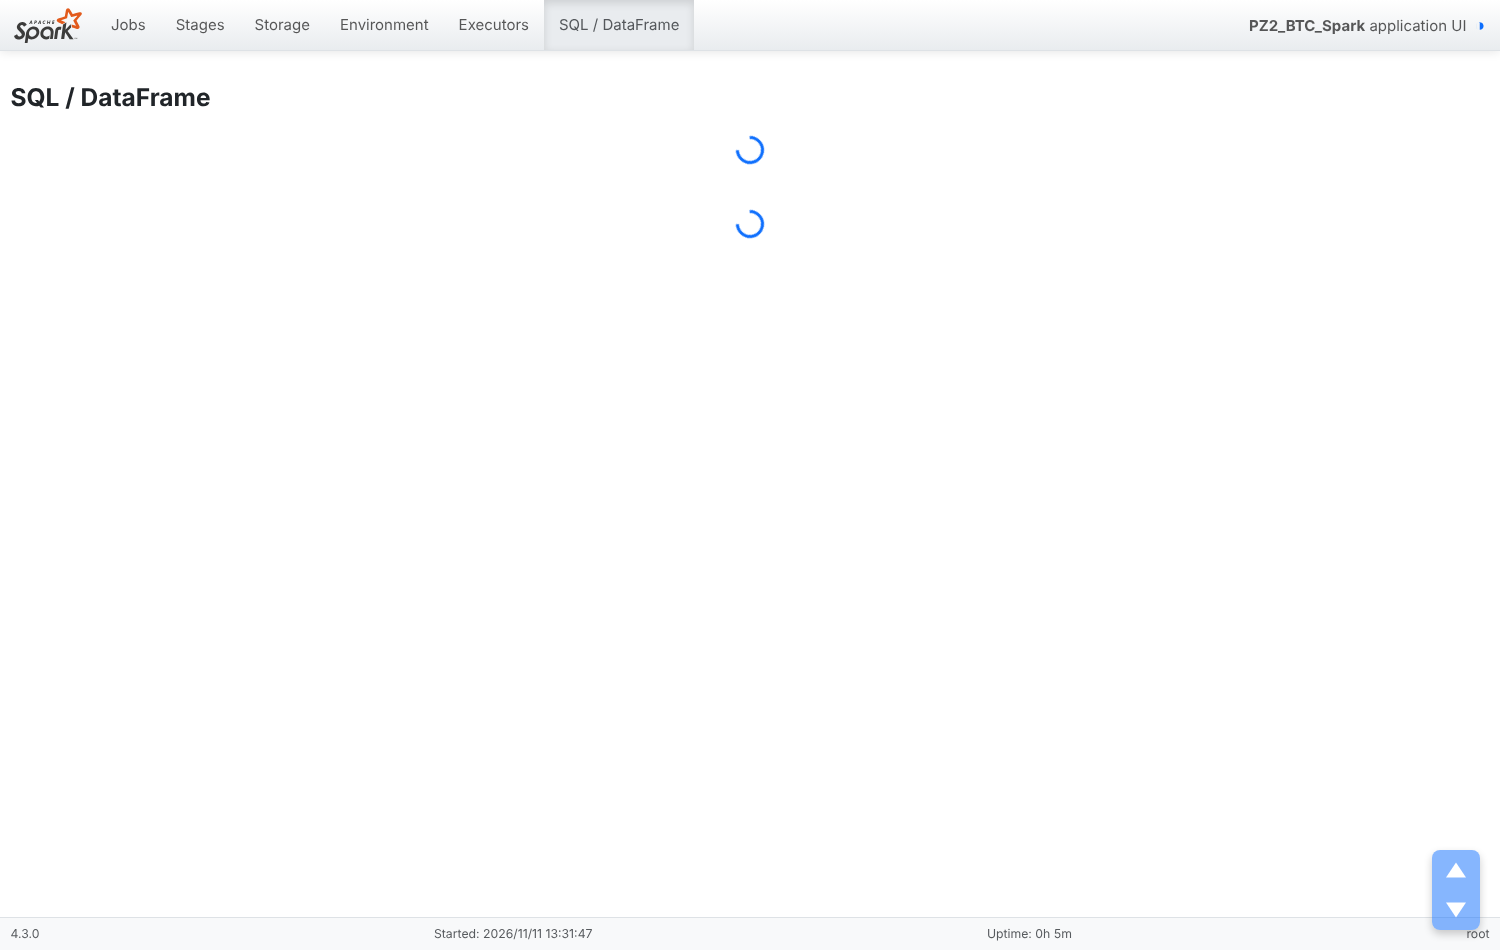
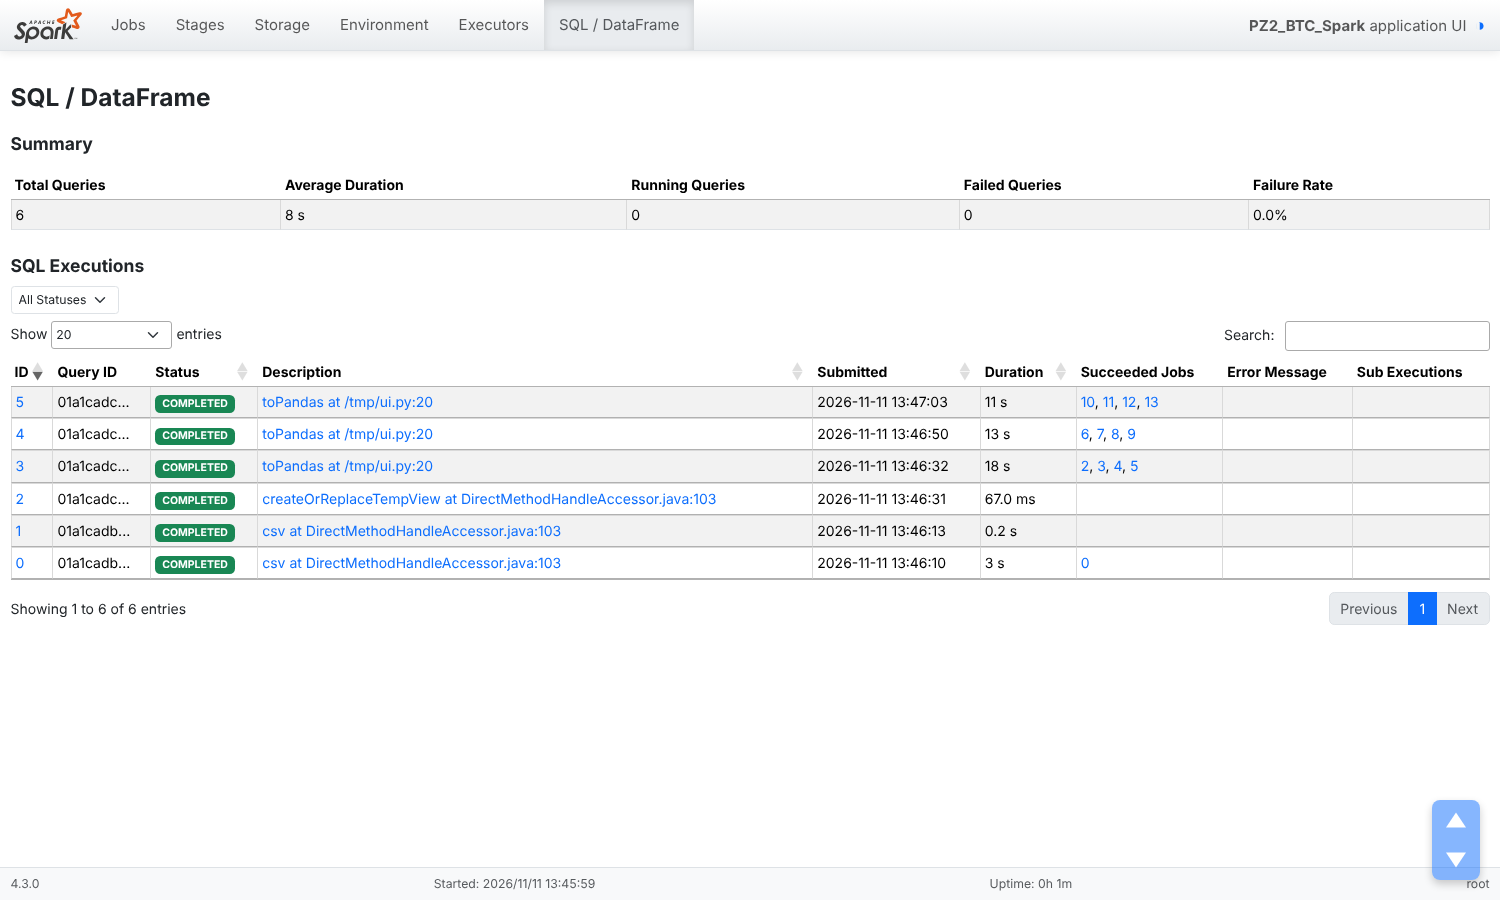
feat: close PZ2 gaps with env screenshots, memory and Spark SQL UI
Claude-Session: https://claude.ai/code/session_01KWCSK2tHnVV4Q7sUd1zkm9

diff --git a/work/pz2/code/measure_memory.py b/work/pz2/code/measure_memory.py
@@ -1,0 +1,60 @@
+# -*- coding: utf-8 -*-
+"""Пік пам'яті (RSS) для pandas і Spark на тих самих двох задачах, що й у pz2_spark.py.
+Кожне вимірювання – окремий процес; psutil опитує RSS кожні 50 мс (процес + діти, для Spark – JVM драйвера)."""
+import os, sys, time, subprocess, threading, psutil, csv
+RAW = "/home/user/AVD/work/data/raw/btcusd_1-min_data.csv"
+RES = os.path.abspath(os.path.join(os.path.dirname(__file__), "..", "results"))
+WORKER = r'''
+import sys, pandas as pd
+RAW, eng, task = sys.argv[1:4]
+if eng == "pandas":
+    d = pd.read_csv(RAW)
+    if task == "year_count_volume":
+        y = pd.to_datetime(d["Timestamp"], unit="s").dt.year
+        r = d.groupby(y).agg(n=("Volume", "size"), vol=("Volume", "sum"))
+    else:
+        dt = pd.to_datetime(d["Timestamp"], unit="s").dt.date
+        r = d.groupby(dt).agg(open=("Open","first"), high=("High","max"), low=("Low","min"), close=("Close","last"), volume=("Volume","sum"))
+else:
+    from pyspark.sql import SparkSession, functions as F
+    from pyspark.sql.types import *
+    spark = (SparkSession.builder.master("local[*]").config("spark.driver.memory","8g")
+             .config("spark.sql.shuffle.partitions","16").config("spark.sql.session.timeZone","UTC")
+             .config("spark.ui.enabled","false").getOrCreate())
+    SCHEMA = StructType([StructField("Timestamp", LongType())] + [StructField(c, DoubleType()) for c in ["Open","High","Low","Close","Volume"]])
+    d = spark.read.csv(RAW, header=True, schema=SCHEMA)
+    if task == "year_count_volume":
+        r = d.groupBy(F.year(F.timestamp_seconds("Timestamp")).alias("year")).agg(F.count("*").alias("n"), F.sum("Volume").alias("vol")).orderBy("year").toPandas()
+    else:
+        d = d.withColumn("date", F.to_date(F.timestamp_seconds("Timestamp")))
+        r = d.groupBy("date").agg(F.min_by("Open","Timestamp").alias("open"), F.max("High").alias("high"), F.min("Low").alias("low"),
+              F.max_by("Close","Timestamp").alias("close"), F.sum("Volume").alias("volume")).orderBy("date").toPandas()
+    spark.stop()
+print("rows", len(r))
+'''
+def run(eng, task):
+    p = subprocess.Popen([sys.executable, "-I", "-c", WORKER, RAW, eng, task], stdout=subprocess.PIPE, text=True)
+    ps = psutil.Process(p.pid); peak = {"py": 0, "jvm": 0, "tot": 0}
+    while p.poll() is None:
+        try:
+            py = ps.memory_info().rss; jvm = 0
+            for c in ps.children(recursive=True):
+                try:
+                    if "java" in c.name(): jvm = max(jvm, c.memory_info().rss)
+                except psutil.Error: pass
+            peak["py"] = max(peak["py"], py); peak["jvm"] = max(peak["jvm"], jvm); peak["tot"] = max(peak["tot"], py + jvm)
+        except psutil.Error: pass
+        time.sleep(0.05)
+    return peak
+rows = []
+for eng in ["pandas", "spark"]:
+    for task in ["year_count_volume", "daily_ohlc"]:
+        pk = run(eng, task); mb = lambda b: round(b / 2**20, 1)
+        if eng == "pandas":
+            rows.append((eng, task, mb(pk["py"]), "peak RSS of Python process (psutil, 50 ms polling)"))
+        else:
+            rows.append((eng, task, mb(pk["jvm"]), "peak RSS of driver JVM (java child process, psutil, 50 ms polling), local[*], driver 8g"))
+            rows.append(("spark_python_client", task, mb(pk["py"]), "peak RSS of PySpark Python process (excluding JVM)"))
+        print(rows[-1], flush=True)
+with open(f"{RES}/pz2_memory.csv", "w", newline="", encoding="utf-8") as f:
+    w = csv.writer(f); w.writerow(["engine", "task", "peak_mb", "method"]); w.writerows(rows)

diff --git a/work/pz2/code/spark_ui_sql_shots.py b/work/pz2/code/spark_ui_sql_shots.py
@@ -1,0 +1,35 @@
+import sys, time, re
+sys.path.insert(0, "/tmp")
+from pyspark.sql import SparkSession
+from playwright.sync_api import sync_playwright
+src = open("/home/user/AVD/work/pz2/code/pz2_spark.py", encoding="utf-8").read()
+RAW = "/home/user/AVD/work/data/raw/btcusd_1-min_data.csv"
+spark = (SparkSession.builder.appName("PZ2_BTC_Spark").master("local[*]").config("spark.driver.memory","8g")
+         .config("spark.sql.shuffle.partitions","16").config("spark.sql.session.timeZone","UTC").config("spark.ui.port","4040").getOrCreate())
+spark.sparkContext.setLogLevel("ERROR")
+from pyspark.sql import functions as F
+d = spark.read.csv(RAW, header=True, inferSchema=True)
+d = (d.withColumn("datetime", F.timestamp_seconds("Timestamp")).withColumn("year", F.year("datetime")).withColumn("month", F.month("datetime"))
+      .withColumn("hour", F.hour("datetime")).withColumn("is_flat", (F.col("Open")==F.col("Close")).cast("int")))
+d.createOrReplaceTempView("btc")
+qs = re.findall(r"^-- q[123].*\n(.*);", open("/home/user/AVD/work/pz2/results/pz2_sql_queries.sql").read(), re.M)
+for q in [
+ "SELECT year, COUNT(*) AS minutes, ROUND(AVG(Close),2) AS avg_close, MAX(High) AS max_high, MIN(Low) AS min_low, ROUND(SUM(Volume),0) AS volume, ROUND(100*AVG(is_flat),2) AS flat_pct FROM btc GROUP BY year ORDER BY year",
+ "SELECT dayofweek(datetime) AS dow, hour, ROUND(AVG(Volume),4) AS avg_volume_per_minute, ROUND(SUM(Volume),0) AS volume_total FROM btc WHERE year >= 2018 GROUP BY dow, hour ORDER BY dow, hour",
+ "SELECT month, COUNT(*) AS minutes, ROUND(AVG(Volume),4) AS avg_vol FROM btc WHERE year >= 2018 GROUP BY month ORDER BY month"]:
+    print(spark.sql(q).toPandas().shape, flush=True)
+url = spark.sparkContext.uiWebUrl; print(url)
+out = "/home/user/AVD/work/pz2/screenshots"
+with sync_playwright() as p:
+    b = p.chromium.launch(executable_path="/opt/pw-browsers/chromium-1243/chrome-linux64/chrome", args=["--no-sandbox"])
+    pg = b.new_page(viewport={"width":1500,"height":900})
+    pg.goto(url + "/SQL/", wait_until="load")
+    pg.wait_for_selector("table tbody tr", timeout=30000); time.sleep(3)
+    pg.screenshot(path=f"{out}/spark_ui_sql.png", full_page=True)
+    links = pg.eval_on_selector_all("a[href*='SQL/execution/?id=']", "e=>e.map(a=>a.href)")
+    print(links)
+    pg.goto(links[0], wait_until="load")
+    pg.wait_for_selector("svg", timeout=30000); time.sleep(3)
+    pg.screenshot(path=f"{out}/spark_ui_sql_detail.png", full_page=True)
+    b.close()
+spark.stop()

diff --git a/work/pz2/code/smoke_test.py b/work/pz2/code/smoke_test.py
@@ -1,0 +1,7 @@
+from pyspark.sql import SparkSession
+spark = SparkSession.builder.master("local[2]").config("spark.ui.enabled","false").getOrCreate()
+spark.sparkContext.setLogLevel("ERROR")
+df = spark.range(1, 1001).selectExpr("id", "id % 7 AS k")
+print("Spark", spark.version, "| count =", df.count())
+df.groupBy("k").count().orderBy("k").show()
+spark.stop()

diff --git a/work/pz2/results/INDEX.md b/work/pz2/results/INDEX.md
@@ -6,14 +6,14 @@
 
 | Завдання | Результати (results/) | Скріншоти / рисунки |
 |---|---|---|
-| 1. Підготовка середовища, SparkSession | env_versions.csv | screenshots/term_01_env.png, spark_ui_environment.png, spark_ui_executors.png |
+| 1. Підготовка середовища, SparkSession | env_versions.csv (додано Jupyter Notebook 7.6.5, JupyterLab 4.6.6, ipykernel) | screenshots/term_01_env.png, term_13_java_version.png, term_14_python_version.png, term_15_pip_show_pyspark.png, term_16_jupyter_version.png, term_17_pyspark_smoke.png (smoke-тест PySpark, code/smoke_test.py), spark_ui_environment.png, spark_ui_executors.png |
 | 2. Завантаження: кількість записів, атрибутів, назви, типи, пропуски | pz2_load_summary.csv, pz2_schema_nulls.csv; timings.csv (inferSchema vs явна схема) | term_02_schema.png, term_03_nulls.png |
 | 3. Попередня обробка: пропуски, типи, дублікати, похідні (UTC datetime, log_ret, range, rel_range, year/month/hour, vol60) | pz2_cleaning.csv, pz2_describe.csv, pz2_flat_summary.csv (16,79 % flat), pz2_yearly_volume_flat.csv | term_06_derived.png, fig09_flat_share.png |
 | Ліниві обчислення: трансформації vs дії, explain() | pz2_lazy_vs_action.csv, logs/explain_full.txt | term_04_lazy.png, spark_ui_jobs.png, spark_ui_stages.png |
 | Кешування: той самий запит без cache() і з ним | pz2_cache_experiment.csv, pz2_cache_summary.csv | term_05_cache.png, spark_ui_storage.png, fig08_timings.png |
 | 4. Аналітика: топ-10 волатильних днів (rv і High-Low/Open), обсяг за годиною (UTC) та роком, асиметрія й ексцес 1 хв/1 год/1 доба, добовий і погодинний агрегат | pz2_top10_rv.csv, pz2_top10_hl_rel.csv, pz2_top10_rv_active.csv, pz2_top10_hl_rel_active.csv, pz2_volume_by_hour.csv, pz2_volume_by_year.csv, pz2_skew_kurtosis.csv, pz2_hist_ret_1m_active.csv, pz2_daily_features.parquet/.csv (5429 рядків), pz2_hourly_features.parquet (130276 рядків) | term_07_top_days.png, term_08_volume.png, term_09_moments.png, fig02-fig06 |
-| 5. Spark SQL (6 запитів над temp views btc, btc_daily) | pz2_sql_q1..q6_*.csv, pz2_sql_queries.sql | term_10_sql_q*.png, term_11_sql_explain.png, spark_ui_sql.png, fig07_dow_hour_heatmap.png |
-| 6. Порівняння MapReduce і Spark (вимірювання) | pz2_engine_comparison.csv, pz2_engine_comparison_summary.csv (Spark vs pandas; Hadoop – рядки-заповнювачі [ЗАПОВНИТИ ПІСЛЯ ЗАПУСКУ]) | term_12_engines.png, fig08_timings.png |
+| 5. Spark SQL (6 запитів над temp views btc, btc_daily) | pz2_sql_q1..q6_*.csv, pz2_sql_queries.sql | term_10_sql_q*.png, term_11_sql_explain.png, spark_ui_sql.png (список SQL-запитів), spark_ui_sql_detail.png (DAG одного запиту),  fig07_dow_hour_heatmap.png |
+| 6. Порівняння MapReduce і Spark (вимірювання) | pz2_memory.csv (пік RSS, code/measure_memory.py: pandas 744/882 МБ, JVM драйвера Spark 1279/1478 МБ для рік/кількість/обсяг і денного OHLC), pz2_engine_comparison.csv, pz2_engine_comparison_summary.csv (Spark vs pandas; Hadoop – рядки-заповнювачі [ЗАПОВНИТИ ПІСЛЯ ЗАПУСКУ]) | term_12_engines.png, fig08_timings.png |
 | 7. Візуалізація | – | figures/fig01_close_log, fig02_returns_vs_normal, fig03_volume_by_hour, fig04_volatility, fig05_yearly_volume, fig06_top_days, fig07_dow_hour_heatmap, fig08_timings, fig09_flat_share (.png, 150 dpi) |
 | Часи кроків | timings.csv | |
 
@@ -22,5 +22,5 @@
 - Матеріалізація кешу (MEMORY_AND_DISK) тривала близько 80 с; запит прискорюється ~7,7 разів (18,3 с -> 2,4 с), окупність настає після ~5 повторів.
 - Кількість `rv` у 2012 р. спотворена: 94,95 % хвилин flat, тому top-10 подано і для днів з flat_share < 0,5.
 - Spark на цьому одному 4-ядерному комп'ютері лише трохи швидший за pandas (JVM, шафл); перевага з'являється на кешованих даних. Hadoop-час треба вписати з Colab.
-- Скріншоти Spark UI зроблено наприкінці скрипта, поки сесія жива (jobs/stages/storage/SQL/executors/environment). Знімок деталі SQL-запиту не отримано.
+- Скріншоти Spark UI зроблено наприкінці скрипта, поки сесія жива (jobs/stages/storage/SQL/executors/environment). Вкладку SQL і деталь запиту (DAG) перезнято окремим скриптом code/spark_ui_sql_shots.py (3 запити з pz2_sql_queries.sql, wait_for_selector + 3 с); у колонці Description видно ім'я цього скрипта. Пам'ять виміряно окремими процесами, час у timings.csv не змінено.
 - Скріншоти term_*.png відрендерено з файлів screenshots/txt/*.txt, що записані з реального stdout скрипта; заголовок "$ ..." показує фрагмент коду, який виконано в pz2_spark.py.
